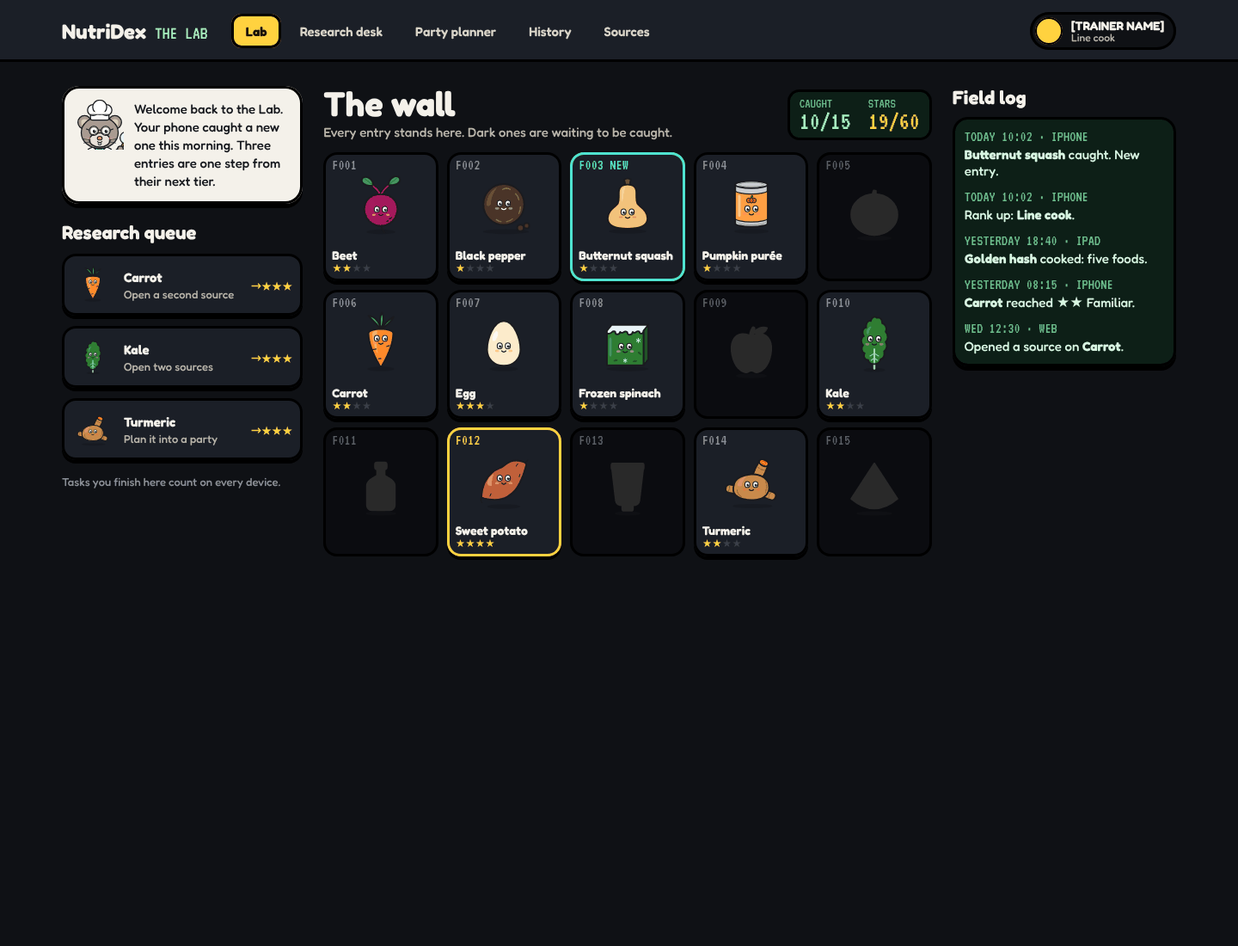
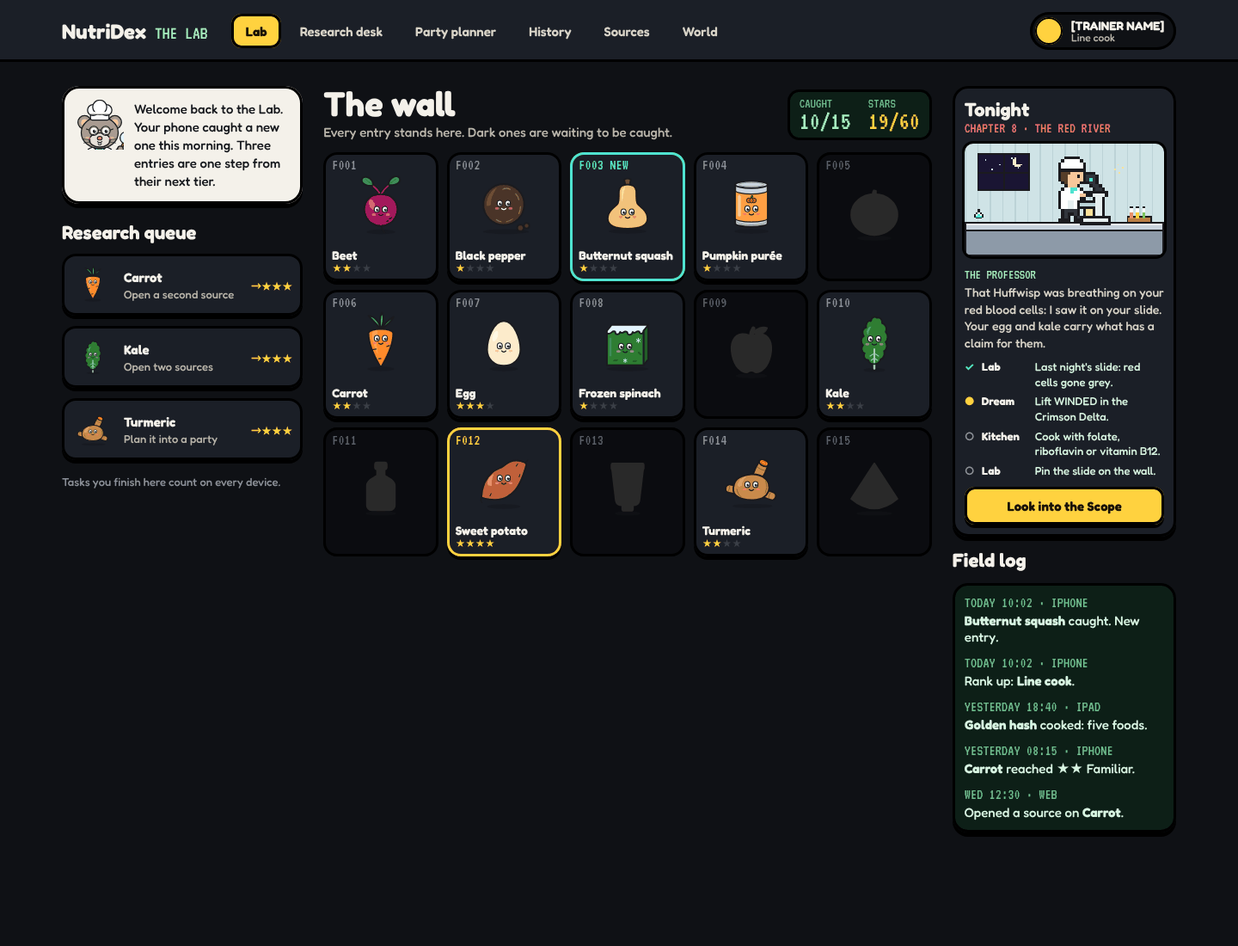
Design wiki: evolutions, the World and the story
Adds three pages built from the design canvas: Evolutions (every food's
three stages and its abilities), the World (the dream inside a body, its
eight lands, the atlas, walking and hazards) and the Story (the Lab, the
Kitchen and the Scope). The changelog, home page and sidebar list them,
the Lab screenshot shows its new Tonight card, and the entry notes match
the canvas's evolution strip.

Claude-Session: https://claude.ai/code/session_019fGdDZ4PYZxUnhsfKfBZG8

Changed region(s): [[0.75, 0.0927, 0.9688, 0.5564], [0.75, 0.5873, 0.9375, 0.8655]]

diff --git a/docs/wiki/World.md b/docs/wiki/World.md
@@ -1,0 +1,179 @@
+# The World
+
+_Last updated 2026-11-14. Source: the [design canvas](https://claude.ai/code/artifact/ab065fd4-9113-4368-b970-3f623da00a00)._
+
+**THE WORLD: A BODY, IN A DREAM**
+
+Awake, you're a scientist in the Professor's food lab. Asleep at its old microscope, the Scope, you dream you're inside a body: eight lands, each where its part of the body is, round Market Town in the belly (where food comes in). Hazards knock one job in the body out of balance with a status. When one finds you, the dream cuts to the Lab: you at the Scope, the hazard on a slide of the tissue it goes for. The only fix is a move or a tonic for that same job, built from foods you've really caught, and it only takes you back to normal.
+
+The Lab and the Kitchen next door are real places, always in colour, and the story happens in them (see "The story"). Everything here comes from the Dex's own data: the EU health claims (Reg. 432/2012, grade B), the bars (15% of a daily value in 100 g), the carotenoid fat rule, USDA portions. Game numbers (steps, hearts, frames) are rules, written down on "How the World plays".
+
+**DECISIONS FOR YOU**
+
+1. A body, not an island. The eight lands now sit where their part of the body is, so the World is its own place and not an island like Pokémon's. The old features stay: the eye lake became two eyes, the bay became the mouth (the fort guards the throat), the harbour sits in the chest between the lungs, the delta is the pelvis, the canyon runs down one arm to a fist, the dunes down the other to an open hand, the cliffs down both legs.
+
+2. No battle screen. Encounters happen at the Scope: the same rules as before (Moves, Samples, Bag, Look up), drawn as you at the microscope and a slide of the tissue the hazard goes for. The slide is always in colour; only the dream fades.
+
+3. The Kitchen is a place. Every coral roof in the dream is a door into one real Kitchen next to the Lab, where you brew, rest and cook along. Cooking a real recipe can bottle one tonic, by the same check as the bench. Tell me if cooking shouldn't make tonics.
+
+4. The Professor is the one voice: in the Lab, at the stove, and over the Scope in the dream. Your partner only speaks in the dream, and is never cooked.
+
+5. Whose body? The finale says "Yours. Mine. Anyone's. Same jobs." The dream is never a picture of your own health; a faded land means not yet understood.
+
+6. Kept from before: World replaces Party in the tab bar; spoon foods can't lift a status alone; the disclaimer gains a line (statuses aren't conditions, tonics aren't treatments), with a version bump.
+
+## Web and Mac
+
+### Web and Mac · The World atlas, interactive
+
+<img src="images/WD-Atlas.png" width="900" alt="Web and Mac · The World atlas, interactive">
+
+_Interactive on the canvas: pick a land._
+
+**BUILD NOTE · Atlas (web and Mac)**
+
+The whole body at 8 px a tile (1008×1128, the 132×143 map cropped to the body with a margin of the dream's dark), drawn at whole-number scale with smoothing off. "Your world" shows restored lands in colour, faded lands in the four greens, and fog over lands you haven't entered (no name, "???"). The toggle's second view is for design review only; the app never shows the whole map.
+
+The skin round the body is drawn along a smooth outline from a distance field stored in the map, so every renderer draws the same edge; collision stays per tile. Labels are HTML in the dark beside each part of the body, never baked into the art. The yellow dot is you. Click a land (map or list) for its guide.
+
+## The eight lands
+
+### Web and Mac · Land 1: Lantern Hollow
+
+<img src="images/WL-eyes.png" width="900" alt="Web and Mac · Land 1: Lantern Hollow">
+
+**BUILD NOTE · Lantern Hollow (Eyes)**
+
+The face. Two eye lakes, each with an iris and a pupil, drawn along their own outlines; the brows above are ridges with hollows (caves) at their ends. Cave floors are dark: you see 3 tiles around you, or 1 while DIM (a circular light mask, 4 px dithered edge). Lanterns light a 5-tile circle; restoring the land lights them all. Trial: cross the dark hollow to the far lantern with a Clear-sight in your bag; the route has 3 set Murkmoths.
+
+The map is 30×22 tiles of the one body, at 2×; neighbouring lands are dimmed. District tags are the land's jobs (effects); the one its status hits is ringed in the status colour. Residents are your caught foods at their stage. The Restored/Faded toggle shows both looks.
+
+### Web and Mac · Land 2: Synapse Heights
+
+<img src="images/WL-brain.png" width="900" alt="Web and Mac · Land 2: Synapse Heights">
+
+**BUILD NOTE · Synapse Heights (Brain and nerves)**
+
+The top of the head. Two folded hemispheres split by a fissure, with the Signal Tower at its top. Relay pads on the plateau: press A to pass the signal along the pylons. While STATIC, the next pad skips and your moves at the Scope come out in a shuffled order. The plateau rim is cliff, with stairs where the fissure path climbs it. Trial: relay a message across six pads without a misfire.
+
+The map is 30×22 tiles of the one body, at 2×; neighbouring lands are dimmed. District tags are the land's jobs (effects); the one its status hits is ringed in the status colour. Residents are your caught foods at their stage. The Restored/Faded toggle shows both looks.
+
+### Web and Mac · Land 3: Bastion Bay
+
+<img src="images/WL-immune.png" width="900" alt="Web and Mac · Land 3: Bastion Bay">
+
+**BUILD NOTE · Bastion Bay (Immune system)**
+
+The throat. The mouth is a smiling bay with a row of teeth; Snifflers come in by it. The fort stands at the base of the neck with gates north (to the head) and south (to the chest). Its gates close while you're BREACHED, so you take the moat road round. Snifflers walk the rampart on a set patrol and start an encounter on contact. Trial: walk the whole rampart with the gates shut; BREACHED doubles the grass encounters on the way.
+
+The map is 30×22 tiles of the one body, at 2×; neighbouring lands are dimmed. District tags are the land's jobs (effects); the one its status hits is ringed in the status colour. Residents are your caught foods at their stage. The Restored/Faded toggle shows both looks.
+
+### Web and Mac · Land 4: Pulse Harbour
+
+<img src="images/WL-heart.png" width="900" alt="Web and Mac · Land 4: Pulse Harbour">
+
+**BUILD NOTE · Pulse Harbour (Heart and circulation)**
+
+The chest. A heart-shaped harbour between the lungs (groves of air-sac trees, the left one bigger). The tide beats every 8 s: low dock tiles flood on the beat and drain between, so you time your crossing, and the Beat Light flashes with it. SQUEEZED costs a heart every 20 steps. Trial: sail out to the Beat Light and back on the beat.
+
+The map is 30×22 tiles of the one body, at 2×; neighbouring lands are dimmed. District tags are the land's jobs (effects); the one its status hits is ringed in the status colour. Residents are your caught foods at their stage. The Restored/Faded toggle shows both looks.
+
+### Web and Mac · Land 5: Calcium Cliffs
+
+<img src="images/WL-bones.png" width="900" alt="Web and Mac · Land 5: Calcium Cliffs">
+
+**BUILD NOTE · Calcium Cliffs (Bones and teeth)**
+
+Both legs. Chalk terraces with ledges at the thigh, the knee and the shin, and stairs through each. Cracked ledges hold you unless you're BRITTLE; then they drop you a terrace. Ledges are one-way. The quarry with its fossil is in the right thigh, tooth-shaped stones by the right knee. Trial: climb from the feet to the quarry rim with no ledge giving way.
+
+The map is 30×22 tiles of the one body, at 2×; neighbouring lands are dimmed. District tags are the land's jobs (effects); the one its status hits is ringed in the status colour. Residents are your caught foods at their stage. The Restored/Faded toggle shows both looks.
+
+### Web and Mac · Land 6: Sinew Canyon
+
+<img src="images/WL-muscle.png" width="900" alt="Web and Mac · Land 6: Sinew Canyon">
+
+**BUILD NOTE · Sinew Canyon (Muscles)**
+
+The muscle arm, down to a fist. The canyon runs shoulder to wrist with striped walls like muscle fibre; stairs lead in at both ends and rope bridges cross it. Walk into a boulder to push it a tile if the tile behind is free; rope bridges are walk-only; STIFF stops both. The Kitchen door and the Rope Hall stand in the fist. Trial: push the canyon road's boulders clear in 40 moves or fewer.
+
+The map is 30×22 tiles of the one body, at 2×; neighbouring lands are dimmed. District tags are the land's jobs (effects); the one its status hits is ringed in the status colour. Residents are your caught foods at their stage. The Restored/Faded toggle shows both looks.
+
+### Web and Mac · Land 7: Dermis Dunes
+
+<img src="images/WL-skin.png" width="900" alt="Web and Mac · Land 7: Dermis Dunes">
+
+**BUILD NOTE · Dermis Dunes (Skin, hair and nails)**
+
+The skin arm, down to an open hand. Sand slows a run to a walk. Long grass stings while CHAPPED: each step costs a heart. The dunes' ripples are whorls, like fingerprints; hairs grow along the forearm, the oasis sits in the palm, and the fingers are dead ends with nails at their tips. Trial: reach the oasis through the long grass without turning back.
+
+The map is 30×22 tiles of the one body, at 2×; neighbouring lands are dimmed. District tags are the land's jobs (effects); the one its status hits is ringed in the status colour. Residents are your caught foods at their stage. The Restored/Faded toggle shows both looks.
+
+### Web and Mac · Land 8: Crimson Delta
+
+<img src="images/WL-blood.png" width="900" alt="Web and Mac · Land 8: Crimson Delta">
+
+**BUILD NOTE · Crimson Delta (Blood)**
+
+The pelvis. The red river comes up as a spring just under Market Town, runs south as one trunk, forks toward the legs, and splits again into marshes at the hips. Rivers block; bridges cross; red blood cells drift on the water. WINDED halves walking speed and stops running. Huffwisps drift over the water as visible roamers. Trial: cross every branch of the delta before the tide turns (a 90 s timer, shown).
+
+The map is 30×22 tiles of the one body, at 2×; neighbouring lands are dimmed. District tags are the land's jobs (effects); the one its status hits is ringed in the status colour. Residents are your caught foods at their stage. The Restored/Faded toggle shows both looks.
+
+## iPhone
+
+### iPhone · World map
+
+<img src="images/WP-Map.png" width="320" alt="iPhone · World map">
+
+**BUILD NOTE · World map (iPhone)**
+
+Select opens it; B closes. The body at 3 px a tile (378×423). Visited lands are named; fog has no name. Kitchen doors are coral. The dot is you.
+
+The list holds only lands you've entered. It never says how many are left ("more lands lie past the fog" is the most it says). Tap a land for its field notes.
+
+### iPhone · Walking
+
+<img src="images/WP-Walk.png" width="320" alt="iPhone · Walking">
+
+**BUILD NOTE · Walking (iPhone)**
+
+12×12 tiles at 2× (16 px tiles, 32 pt). Movement is tile-locked: 16 frames a tile walking, 8 running (hold B), and a tap turns you before you step. The camera scrolls by whole pixels. The lead food follows one tile behind on your exact path.
+
+HUD: land, hearts, status chips, Start. The dialogue box is HTML/SwiftUI text over the map, never pixels, so Dynamic Type works. It's the Professor, over the Scope: he only names nutrients you've unlocked.
+
+This land is faded: the four greens until WINDED is lifted here once. Skins: HUD, dialogue and controls draw from the skin's tokens; the map is art and keeps its palettes in every skin.
+
+### iPhone · Field notes
+
+<img src="images/WP-Notes.png" width="320" alt="iPhone · Field notes">
+
+**BUILD NOTE · Field notes (iPhone)**
+
+A land's guide, from your Dex only: the status here, the claim words for what lifts it, your foods that do (and the ones asleep), spoon foods, the land's other jobs and its trial. Nothing uncaught or locked is named. Niacin is locked in this sample, so it isn't listed even though it has claims here.
+
+## iPad
+
+### iPad · The World
+
+<img src="images/WT-World.png" width="900" alt="iPad · The World">
+
+**BUILD NOTE · iPad**
+
+Same game, 24×17 tiles at 2×: here, the left eye of Lantern Hollow, its Kitchen door and a cell. The field guide sits beside the map, so you can read what lifts a status without opening a menu. On-screen controls float over the map's corners at 70% and hide when a controller or keyboard connects. Split View: below 700 pt wide it becomes the phone layout.
+
+## Hazards
+
+### Hazards
+
+<img src="images/W-Hazards.png" width="900" alt="Hazards">
+
+**BUILD NOTE · Hazards**
+
+Eight original hazards, one per land, each tied to the one job its status hits. Three looks each: a 16×16 sprite in the dream (two walk frames), a drawing in the creature house style for the Scope (256 viewBox, 6 px #1B1B1F outline, flat fills, the standard eyes; mischief comes from lids, brows and a smirk), and a 112×112 pixel slide of the tissue it goes for, drawn at 3×.
+
+They never faint, are never caught and never drop anything. A blocked hazard drifts off the slide (0.6 s fade-up) and the cells come back. Visible roamers keep to a route of 4 to 12 tiles, at walking speed, turning at the ends.
+
+## How the World plays
+
+<img src="images/W-Spec.png" width="1000" alt="How the World plays">
+
+Encounters, the Lab and the Kitchen are on the [[Story|Story]] page.

diff --git a/docs/wiki/Story.md b/docs/wiki/Story.md
@@ -1,0 +1,51 @@
+# The story
+
+_Last updated 2026-11-14. Source: the [design canvas](https://claude.ai/code/artifact/ab065fd4-9113-4368-b970-3f623da00a00)._
+
+Awake, you are a scientist in the Professor's food lab. Asleep at its old microscope, the Scope, you dream the World inside a body. The Lab and the Kitchen are real places, always in colour, and they are where the story happens: the Professor talks to you there, and the Kitchen is where you cook along with him. Encounters happen at the Scope, on a slide of the land's own tissue.
+
+### The story
+
+<img src="images/W-Story.png" width="900" alt="The story">
+
+**BUILD NOTE · The story**
+
+Scenes live in data/world/story.json: each has a place (Lab, Kitchen or dream), a trigger, and 3 to 6 lines. The triggers are things the player really did, read from the same events the app already records (an encounter, a recipe cooked, a source opened, a tier crossed, a status lifted, a trial cleared). lib/world/ decides which scene is due; the apps only play it. Lines may name only caught foods and unlocked nutrients, and a claim is quoted from the card word for word; a test checks every line against both.
+
+The web and Mac Lab home gains a "Tonight" card (see the Lab on the Game page). iPhone and iPad get the Lab screen. Same lines everywhere.
+
+### iPhone · The Lab
+
+<img src="images/WP-Lab.png" width="320" alt="iPhone · The Lab">
+
+**BUILD NOTE · The Lab (iPhone)**
+
+The Lab, 12×10 tiles at 2×: the Scope on its bench, the wall (only what you've caught: no empty frames on iPhone and iPad), benches, the sample fridge, the research desk, the Kitchen door. You and the Professor walk here like the dream, so the same movement code runs it.
+
+The story scene plays when you come in, then "Tonight" lists the chapter's beats. Look into the Scope: a 0.6 s push into the eyepiece, then you're in the dream at the last door you used. On web and Mac the same scene and card sit on the Lab home.
+
+### iPhone · At the Scope, interactive
+
+<img src="images/WP-Scope.png" width="320" alt="iPhone · At the Scope, interactive">
+
+_Interactive on the canvas: pick a move, swap a sample, look up._
+
+**BUILD NOTE · At the Scope (iPhone, interactive)**
+
+The cut: the dream ripples, the Lab at night (you bent over the Scope), then a push into the eyepiece; with Reduce Motion, a crossfade. Above: the bench, so you always see where you are. Middle: the slide at 3×, the hazard's house-style drawing over the cells it's at, the name plate and the sample on the slide.
+
+Rules as before: a move is one of the sample's jobs; the right job blocks and the cells come back. Spinach is a sprout, so only vitamin K is awake; swap to Egg, Beet or Kale. Look up fails only while WINDED. Power is shown but never changes the result.
+
+### iPhone · The Kitchen, interactive
+
+<img src="images/WP-Kitchen.png" width="320" alt="iPhone · The Kitchen, interactive">
+
+_Interactive on the canvas: cook along, brew a tonic, or rest._
+
+**BUILD NOTE · The Kitchen (iPhone, interactive)**
+
+One room reached from every coral roof. Cook along is for real cooking: open a recipe in NutriDex and the Kitchen comes up beside it. The recipe grid (ingredients as rows, a column per step, each step spanning the ingredients it uses) lights the step you're on, and the Professor's line for it is built from the engine's flags: here the fat rule (rule id-0001), met by two eggs at 10 g of fat a serving. At the end you can bottle one tonic its foods lift.
+
+Brew a tonic: the bench as before. Rest: hearts and statuses, then back to sleep at the door you came in by.
+
+The Lab's home screen on the web and Mac carries the night's chapter in a Tonight card: see [[Web and Mac|Web-and-Mac]].

diff --git a/docs/wiki/Evolutions.md b/docs/wiki/Evolutions.md
@@ -1,0 +1,51 @@
+# Evolutions
+
+_Last updated 2026-11-14. Source: the [design canvas](https://claude.ai/code/artifact/ab065fd4-9113-4368-b970-3f623da00a00)._
+
+**EVOLUTIONS**
+
+Every food grows in three stages as you research it: where it starts (a sprout, a blossom, a sapling, a nest), the food itself, and Heirloom. Its abilities are its micronutrients: each vitamin or mineral it's a real source of. Evolving wakes abilities; it never changes a figure. They were always in the food, and now you know them.
+
+**DECISIONS FOR YOU**
+
+1. One entry, three looks. A food keeps one Dex number through its stages; stage 1 shows where it starts and its figures stay the USDA record of the food itself. Heirloom is a rank, not a variety.
+
+2. When it evolves. I tied the stages to the research tiers you already have: Sprout at ★ (caught), Ripe at ★★ Familiar, Heirloom at ★★★★ Mastered. No new grind.
+
+3. Two foods have no ability. Granny Smith and watermelon don't clear a bar for any micronutrient (Granny Smith's vitamin C is missing from its USDA record; watermelon's is under the bar). I show "No ability yet" rather than invent one.
+
+4. The old Ability (fat-soluble) becomes a trait on the vitamin A ability, where it belongs. Cautions stay never-locked.
+
+### Evolutions: every food's line
+
+<img src="images/E-Sheet.png" width="900" alt="Evolutions: every food's line">
+
+**BUILD NOTE · Evolution lines (spec)**
+
+This sheet shows all fifteen lines for design. In the app a line appears only once the food is caught, and a stage you haven't reached is a silhouette with its condition ("Had it three times, or cooked it once").
+
+Abilities: vitamins, minerals and choline the food clears a bar for (15% of a daily value in 100 g), largest share first. The first is its signature: the one a sprout has awake. Traits: "needs a fat" (carotenoid vitamin A, rule id-0001) and "spoon food" (spices and oils). Pairings wake at Heirloom: the EU claims that link one nutrient to another (vitamin C increases iron absorption; vitamin D helps absorb calcium and phosphorus; copper, riboflavin and vitamin A for iron; zinc for vitamin A; vitamin C and vitamin E). In the World, a pairing lets two party members act in one turn.
+
+Art: stage 1 is a new drawing in the house style; stage 3 is the stage-2 art with the heirloom toque, medal and halo, so a new food needs one extra drawing.
+
+### iPhone · A food ripens, interactive
+
+<img src="images/E-Evolve.png" width="320" alt="iPhone · A food ripens, interactive">
+
+_Interactive on the canvas: press Play._
+
+**BUILD NOTE · A food ripens (interactive)**
+
+Plays in the unlock queue after Upload, or right away on the device that crossed the tier. 3.2 s: three glow pulses, the two stages swap faster and faster, a white flash, the reveal. Haptic success at the reveal. Reduce Motion: a 0.4 s crossfade. Skippable; never cancellable (the food has already ripened).
+
+The reveal lists the abilities that woke and the moves they bring, and says plainly that nothing about the food changed.
+
+### iPhone · Abilities on an entry (Frozen spinach, a sprout)
+
+<img src="images/E-Entry.png" width="320" alt="iPhone · Abilities on an entry (Frozen spinach, a sprout)">
+
+**BUILD NOTE · Abilities on an entry**
+
+The Evolution strip sits under the research card: three stages, the current one ringed, the next as a silhouette with its condition. Abilities replace the old single Ability: each micronutrient with its share and what it powers. Asleep ones are named (the food is caught, so they're unlocked) but greyed until the next stage.
+
+The same change ships on iPad (entry panel) and the web and Mac (research desk).

diff --git a/docs/wiki/iPhone.md b/docs/wiki/iPhone.md
@@ -1,6 +1,6 @@
 # iPhone
 
-_Last updated 2026-11-13. Source: the [design canvas](https://claude.ai/code/artifact/ab065fd4-9113-4368-b970-3f623da00a00)._
+_Last updated 2026-11-14. Source: the [design canvas](https://claude.ai/code/artifact/ab065fd4-9113-4368-b970-3f623da00a00)._
 
 The main application. Every screen below is on the canvas's Game page.
 
@@ -48,11 +48,11 @@ A food you already caught skips the reveal and shows '+1 research'. Several food
 
 **BUILD NOTE · Entry**
 
-Sections draw by tier. ★: hero, types, top three moves, cautions. ★★: every move and the ability. ★★★: forms and compounds. ★★★★: the professor's notes.
+Sections draw by tier. ★: its first stage (sprout), types, its signature ability and the moves it powers, every caution. ★★: it ripens; every ability and move. ★★★: forms and compounds. ★★★★: Heirloom, pairings and the professor's notes.
 
-A locked section shows its name and the task that opens it, never a blurred preview of real data. Research tasks are worked out live and tick as you go.
+Evolution: three stages, the current one ringed, the next a silhouette with its condition. Abilities are its micronutrients (vitamins, minerals, choline it clears a bar for), largest share first; the first is its signature. The old single Ability is now a trait on the ability it belongs to: carrot's vitamin A "needs a fat", wording and source unchanged.
 
-Moves are the effect tiles the engine already makes: power is topShare × 100, colour is the body system. The ability is the absorption flags, wording unchanged. Forms come from prep rows. Cautions always draw, even when empty.
+A locked section shows its name and the task that opens it, never a blurred preview of real data. Moves are the effect tiles the engine already makes: power is topShare × 100, colour is the body system. Cautions are never locked.
 
 ### Regions
 

diff --git a/docs/wiki/Design-Changelog.md b/docs/wiki/Design-Changelog.md
@@ -1,10 +1,15 @@
 # Design changelog
 
-_Last updated 2026-11-13. Source: the [design canvas](https://claude.ai/code/artifact/ab065fd4-9113-4368-b970-3f623da00a00)._
+_Last updated 2026-11-14. Source: the [design canvas](https://claude.ai/code/artifact/ab065fd4-9113-4368-b970-3f623da00a00)._
 
 Newest first.
 
 ## 2026-11-13
+
+- Added the World, a pixel-art map you explore in a dream, set inside a body: eight lands sit where their part of the body is (eyes, brain, immune system, heart, bones, muscles, skin and blood), each with a hazard tied to the job its status hits. It has an atlas on the web and Mac, a world map, walking and field notes on iPhone, and an iPad view.
+- Replaced the battle screen with the Scope: you are a scientist in the Professor's lab, and an encounter is a slide under his microscope showing what a land's hazard is doing.
+- Added the Lab and the Kitchen as places where the story happens, with chapters, the Professor's lines, and cooking along with a recipe in the Kitchen. The Lab on the web and Mac gained a Tonight card.
+- Added evolutions: every food grows from where it starts (a sprout, blossom, sapling or nest) to the food itself to an heirloom, and its abilities are the vitamins and minerals it is a real source of. The sprouts were then redrawn so each one sits in its soil.
 
 - Added account screens: sign-in, settings, profile, your data and privacy, friends and a friend's card on iPhone, and settings in the Lab. The trainer card's Skins button became a gear that opens Settings, where skins live.
 - Added the Plus tier: plans and pricing sheet, paywall, Ask the professor, recipe ideas and the weekly letter. Suggested price $4.99 a month or $39.99 a year.

diff --git a/docs/wiki/Home.md b/docs/wiki/Home.md
@@ -1,6 +1,6 @@
 # NutriDex design wiki
 
-_Last updated 2026-11-13. Source: the [design canvas](https://claude.ai/code/artifact/ab065fd4-9113-4368-b970-3f623da00a00)._
+_Last updated 2026-11-14. Source: the [design canvas](https://claude.ai/code/artifact/ab065fd4-9113-4368-b970-3f623da00a00)._
 
 This wiki is the hand-off for NutriDex's redesign: every screen, how it should behave, and the reasons behind it, so that what gets built matches what was designed. The screens live on a [Design canvas](https://claude.ai/code/artifact/ab065fd4-9113-4368-b970-3f623da00a00); each page here mirrors one of its pages, with a screenshot and the build note that sits beside each artboard.
 
@@ -17,6 +17,9 @@ NutriDex is phone-first and built as a game, Pokédex-style: you catch the foods
 - [[Health|Health]]: label scanning, the health score and nutrient detail
 - [[NutriDex Plus|Plus]]: the paid tier, pricing and how Claude is used
 - [[Account|Account]]: sign-in, settings, profile, privacy and friends
+- [[Evolutions|Evolutions]]: how every food grows from a sprout to an heirloom, and its abilities
+- [[The World|World]]: the dream inside a body, its eight lands, walking and the atlas
+- [[The story|Story]]: the Lab, the Kitchen and the Scope, where the story happens
 - [[Explorations|Explorations]]: the journey map and the three directions that came before the game
 - [[Design changelog|Design-Changelog]]: what changed and why
 

diff --git a/docs/wiki/Health.md b/docs/wiki/Health.md
@@ -1,6 +1,6 @@
 # Health
 
-_Last updated 2026-11-13. Source: the [design canvas](https://claude.ai/code/artifact/ab065fd4-9113-4368-b970-3f623da00a00)._
+_Last updated 2026-11-14. Source: the [design canvas](https://claude.ai/code/artifact/ab065fd4-9113-4368-b970-3f623da00a00)._
 
 Take a picture of a label (or scan its barcode) every time you eat, and NutriDex logs it. A health score shows how much of your daily references your logged meals reached, and the lowest nutrients come first, with where yours came from.
 

diff --git a/docs/wiki/Account.md b/docs/wiki/Account.md
@@ -1,6 +1,6 @@
 # Account
 
-_Last updated 2026-11-13. Source: the [design canvas](https://claude.ai/code/artifact/ab065fd4-9113-4368-b970-3f623da00a00)._
+_Last updated 2026-11-14. Source: the [design canvas](https://claude.ai/code/artifact/ab065fd4-9113-4368-b970-3f623da00a00)._
 
 Signing in, settings, profile, your data, and friends. The gear on the trainer card opens Settings. Friends follow the same rule as the rest of the game: nothing you haven't caught shows, and nobody sees anyone's health data.
 

diff --git a/docs/wiki/Design-Principles.md b/docs/wiki/Design-Principles.md
@@ -1,6 +1,6 @@
 # Design principles
 
-_Last updated 2026-11-13. Source: the [design canvas](https://claude.ai/code/artifact/ab065fd4-9113-4368-b970-3f623da00a00)._
+_Last updated 2026-11-14. Source: the [design canvas](https://claude.ai/code/artifact/ab065fd4-9113-4368-b970-3f623da00a00)._
 
 These hold on every platform and every skin. They come from the app's own rules (CLAUDE.md and the design system's content guide) and from decisions made while designing.
 

diff --git a/docs/wiki/Explorations.md b/docs/wiki/Explorations.md
@@ -1,6 +1,6 @@
 # Explorations
 
-_Last updated 2026-11-13. Source: the [design canvas](https://claude.ai/code/artifact/ab065fd4-9113-4368-b970-3f623da00a00)._
+_Last updated 2026-11-14. Source: the [design canvas](https://claude.ai/code/artifact/ab065fd4-9113-4368-b970-3f623da00a00)._
 
 Earlier rounds, kept for reference. The game design superseded the three directions; the Field journal recipe screen's step grid lives on in the iPad party screen.
 

diff --git a/docs/wiki/Plus.md b/docs/wiki/Plus.md
@@ -1,6 +1,6 @@
 # NutriDex Plus
 
-_Last updated 2026-11-13. Source: the [design canvas](https://claude.ai/code/artifact/ab065fd4-9113-4368-b970-3f623da00a00)._
+_Last updated 2026-11-14. Source: the [design canvas](https://claude.ai/code/artifact/ab065fd4-9113-4368-b970-3f623da00a00)._
 
 The paid tier: the professor's insights about your week and recipe ideas, written by Claude. The game, scanning and the health score stay free.
 

diff --git a/docs/wiki/The-Professor.md b/docs/wiki/The-Professor.md
@@ -1,6 +1,6 @@
 # The professor
 
-_Last updated 2026-11-13. Source: the [design canvas](https://claude.ai/code/artifact/ab065fd4-9113-4368-b970-3f623da00a00)._
+_Last updated 2026-11-14. Source: the [design canvas](https://claude.ai/code/artifact/ab065fd4-9113-4368-b970-3f623da00a00)._
 
 An original chef rat, drawn in the creatures' house style, who guides people through the Dex. He has a [NAME] placeholder.
 
